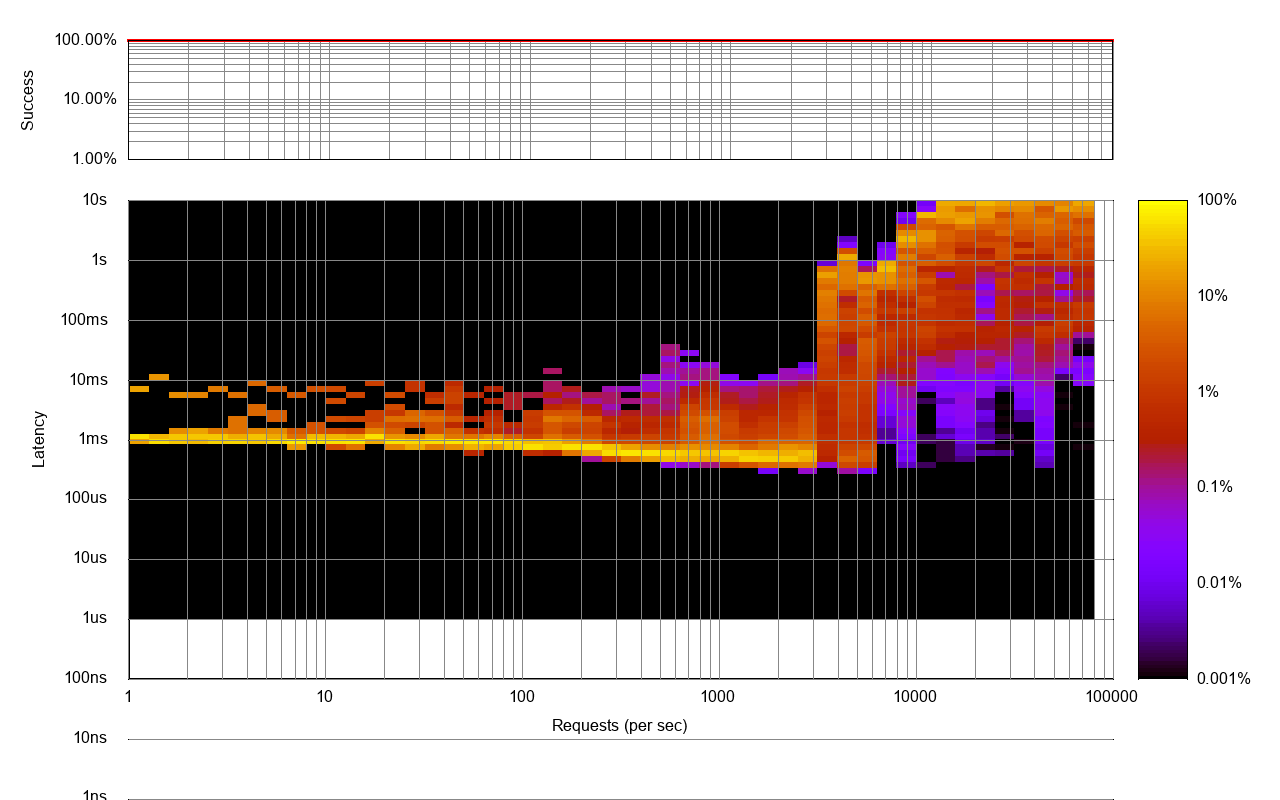
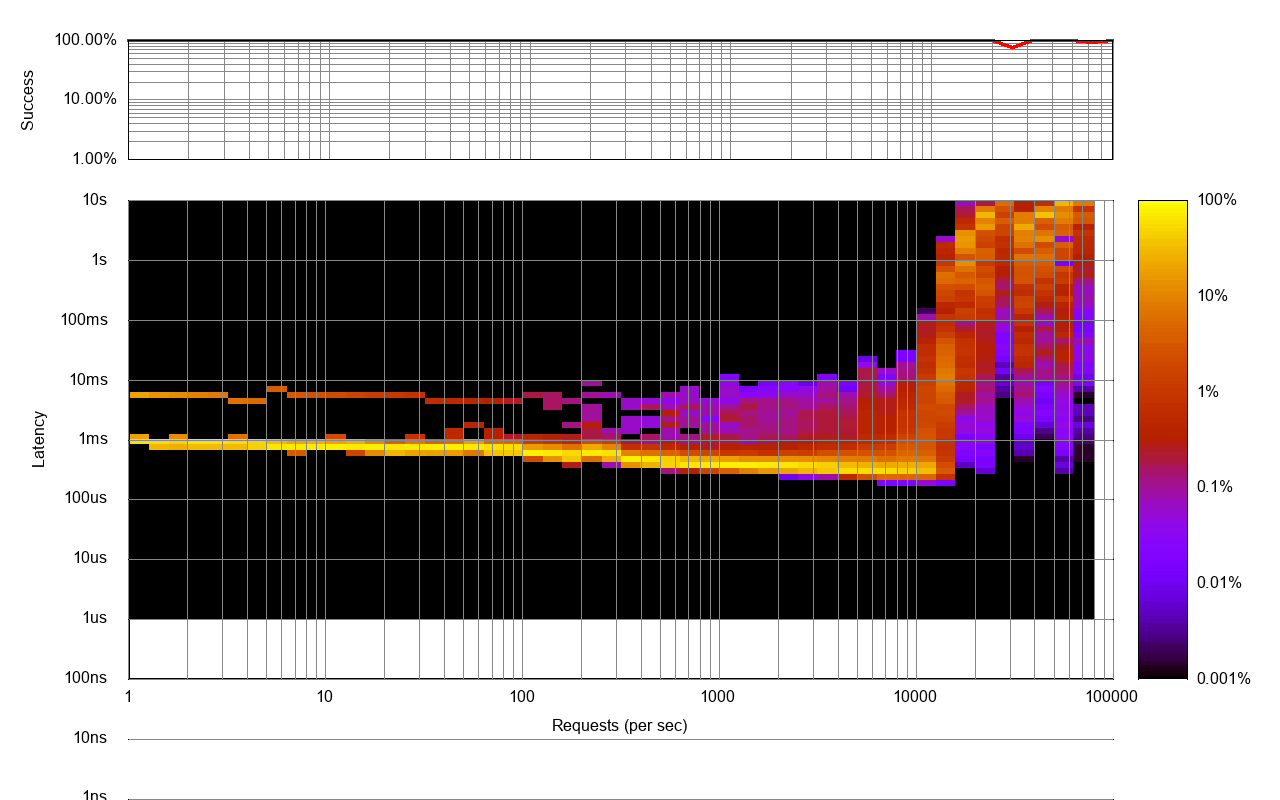
Update thrpt-receiver profiling, add gnuplot

Changed region(s): [[0.0938, 0.25, 0.875, 0.625], [0.7812, 0.0312, 0.8125, 0.0625], [0.0938, 0.4688, 0.125, 0.5]]

diff --git a/perf/thrpt-receiver/README.md b/perf/thrpt-receiver/README.md
@@ -25,6 +25,8 @@ Usage of thrpt-receiver:
    * [Reading results](#reading-results)
    * [Clean up](#clean-up)
 1. [Plotting](#plotting)
+   * [Google Sheets](#google-sheets)
+   * [gnuplot](#gnuplot)
 1. [Profiling](#profiling)
    * [Throughput](#throughput)
    * [Latency](#latency)
@@ -175,16 +177,35 @@ create such visualizations are described in this section.
 
    ![Chart](.assets/plot-gsheets-full-chart.png)
 
+### gnuplot
+
+The provided `throughput.plt` file can be used to plot Mako's CSV results. Those results must be saved to a file called
+`results.csv`.
+
+To generate a graph exported to a PNG file, execute the following command:
+
+```
+$ gnuplot -e "set term png size 1920, 1080" throughput.plt > results.png
+```
+
+See the next section for an example of rendered graph.
+
 ## Profiling
 
 The figures presented in this section describe the profile of a single instance of `thrpt-receiver` running under heavy
 load on a dedicated node in the TriggerMesh production cluster ([GCE n1-standard-2][gce-machines]). Those metrics can be
 used as a baseline to assess the performance of other CloudEvent handlers.
 
-We ensured that the limits of the `thrpt-receiver` process, in particular the maximum number of open files, were high
-enough to sustain a high number of concurrent connections. The number of outgoing connections established by a single
-load generator can not exceed the number of ports available on its host (65536), so we consider any value above that
-number as acceptable for the `nofile` resource limit of the receiver:
+Using the [ramp-requests.py](../load-ramping/) script, a succession of attacks were performed at different rates in
+periods of 5s, ranging from 1 event/sec to 79,432 events/sec (theoretical), with a payload of 2 KiB. The attacker was
+running on a dedicated compute-optimized node ([GCE c2-standard-8][gce-machines]) to avoid exhausting the node's
+resources at an early stage of the attack. The receiver's event store was initialized with a size of 900,000 using the
+`-estimated-total-events` flag.
+
+We ensured that the limits of the `thrpt-receiver` and `vegeta` processes, in particular the maximum number of open
+files, were high enough to sustain a high number of concurrent connections. The number of outgoing connections
+established by a single load generator can not exceed the number of ports available on its host (65536), so we consider
+any value above that number as acceptable for the `nofile` resource limit:
 
 ```
 / # cat /proc/3352/limits
@@ -197,31 +218,117 @@ Max open files            1048576              1048576              files
 
 ### Throughput
 
-_The Go garbage collector was disabled for the entire duration of this load test to prevent GC pauses from influencing
-the results. The event store was initialized with a size of 300,000 using the `-estimated-total-events` flag._
-
-The attack was performed in 5 intervals of 12s, by increments of 1600 events/sec, with a payload of 2 KiB. Below is a
-summary of the attack as reported by [`vegeta`][vegeta].
-
-```
-Requests      [total, rate, throughput]         275124, 4543.47, 4539.96
-Duration      [total, attack, wait]             1m1s, 1m1s, 46.915ms
-Latencies     [min, mean, 50, 90, 95, 99, max]  250.013µs, 152.998ms, 1.134ms, 555.641ms, 911.698ms, 1.36s, 2.412s
-Bytes In      [total, mean]                     0, 0.00
-Bytes Out     [total, mean]                     563453952, 2048.00
-Success       [ratio]                           100.00%
-Status Codes  [code:count]                      200:275124
-Error Set:
-```
-
 The throughput data collected by the Mako sidecar was extracted as a CSV file and displayed in a chart generated using
-Google Sheets. Although vegeta reported a success rate of 100%, we can observe that the thoughput becomes extremely
-unstable between the 4th and 5th intervals, roughly between 6400 and 8000 events/sec.
+gnuplot (see the [gnuplot](#gnuplot) section). We can observe that the throughput becomes extremely unstable at about
+**12,000 events/sec**.
+
+> _It's over 9000!_
 
 ![Receive throughput](.assets/profiling-receive-throughput.png)
 
-During the load test, `thrpt-receiver` was running with the `-profiling` flag so we could extract an execution trace
-from the pprof server and analyze the heap profile of the application:
+The Vegeta report for the 12,589 events/sec attack shows a 100% success ratio, but high latencies above the 90th
+percentile:
+
+```
+Requests      [total, rate, throughput]         62947, 12589.63, 12387.62
+Duration      [total, attack, wait]             5.081s, 5s, 81.532ms
+Latencies     [min, mean, 50, 90, 95, 99, max]  187.316µs, 133.384ms, 14.439ms, 528.109ms, 629.386ms, 1.326s, 2.386s
+Bytes In      [total, mean]                     0, 0.00
+Bytes Out     [total, mean]                     128915456, 2048.00
+Success       [ratio]                           100.00%
+Status Codes  [code:count]                      200:62947
+Error Set:
+```
+
+At 15,848 events/sec, we start seeing a few errors and some unacceptably high latencies (median above 1s):
+
+```
+Requests      [total, rate, throughput]         78950, 15787.37, 6784.90
+Duration      [total, attack, wait]             11.512s, 5.001s, 6.511s
+Latencies     [min, mean, 50, 90, 95, 99, max]  319.739µs, 1.474s, 1.527s, 2.703s, 2.851s, 4.029s, 8.418s
+Bytes In      [total, mean]                     0, 0.00
+Bytes Out     [total, mean]                     159959040, 2026.08
+Success       [ratio]                           98.93%
+Status Codes  [code:count]                      0:845  200:78105
+Error Set:
+Post "http://thrpt-receiver.perf-thrpt-receiver": read tcp 10.16.51.3:35317->10.19.245.6:80: read: connection reset by
+peer
+Post "http://thrpt-receiver.perf-thrpt-receiver": read tcp 10.16.51.3:52902->10.19.245.6:80: read: connection reset by
+peer
+Post "http://thrpt-receiver.perf-thrpt-receiver": read tcp 10.16.51.3:45288->10.19.245.6:80: read: connection reset by
+peer
+...
+```
+
+Above 19,000 events/sec, our attacker is unable to produce enough requests to keep up with the target, as shown in the
+following reports for 19,953 events/sec and 25,119 events/sec (see the value for `Requests . rate`):
+
+```
+Requests      [total, rate, throughput]         96416, 19283.75, 8150.28
+Duration      [total, attack, wait]             11.774s, 5s, 6.775s
+Latencies     [min, mean, 50, 90, 95, 99, max]  221.071µs, 3.63s, 3.89s, 6.24s, 6.49s, 6.756s, 10.075s
+Bytes In      [total, mean]                     0, 0.00
+Bytes Out     [total, mean]                     196536320, 2038.42
+Success       [ratio]                           99.53%
+Status Codes  [code:count]                      0:451  200:95965
+Error Set:
+Post "http://thrpt-receiver.perf-thrpt-receiver": dial tcp 0.0.0.0:0->10.19.245.6:80: bind: address already in use
+
+Requests      [total, rate, throughput]         111869, 22365.76, 3890.88
+Duration      [total, attack, wait]             22.053s, 5.002s, 17.052s
+Latencies     [min, mean, 50, 90, 95, 99, max]  5.248ms, 11.403s, 12.524s, 16.096s, 16.786s, 16.943s, 21.056s
+Bytes In      [total, mean]                     0, 0.00
+Bytes Out     [total, mean]                     175732736, 1570.88
+Success       [ratio]                           76.70%
+Status Codes  [code:count]                      0:26062  200:85807
+Error Set:
+Post "http://thrpt-receiver.perf-thrpt-receiver": dial tcp 0.0.0.0:0->10.19.245.6:80: bind: address already in use
+```
+
+Finally, we confirmed the limit of **12,000 events/sec** with a sustained attack (3m) coordinated between 2 event
+senders (2x 6,000 events/s):
+
+_Attacker "vegeta"_
+
+```console
+$ cegen -u http://thrpt-receiver.perf-thrpt-receiver.svc.cluster.local -d @/sample-ce-data.json | vegeta attack -lazy -format json -duration 3m -rate 6000/s | vegeta report
+Requests      [total, rate, throughput]         1080005, 6000.03, 6000.02
+Duration      [total, attack, wait]             3m0s, 3m0s, 309.965µs
+Latencies     [min, mean, 50, 90, 95, 99, max]  175.806µs, 62.058ms, 2.516ms, 116.84ms, 418.284ms, 1.113s, 4.524s
+Bytes In      [total, mean]                     0, 0.00
+Bytes Out     [total, mean]                     2211850240, 2048.00
+Success       [ratio]                           100.00%
+Status Codes  [code:count]                      200:1080005
+Error Set:
+```
+
+_Attacker "goku"_
+
+```console
+$ cegen -u http://thrpt-receiver.perf-thrpt-receiver.svc.cluster.local -d @/sample-ce-data.json | vegeta attack -lazy -format json -duration 3m -rate 6000/s | vegeta report
+Requests      [total, rate, throughput]         1080005, 6000.03, 5999.65
+Duration      [total, attack, wait]             3m0s, 3m0s, 11.254ms
+Latencies     [min, mean, 50, 90, 95, 99, max]  175.479µs, 62.069ms, 2.579ms, 119.076ms, 419.17ms, 1.104s, 2.918s
+Bytes In      [total, mean]                     0, 0.00
+Bytes Out     [total, mean]                     2211850240, 2048.00
+Success       [ratio]                           100.00%
+Status Codes  [code:count]                      200:1080005
+Error Set:
+```
+
+### Latency
+
+In the graph below, we can see the first failed requests occuring during the attack at 15,848 events/sec. However, the
+p99 above the 12,000 events/s mark is already consistently above 1s (see the reports for the single and coordinated
+attacks in the previous section).
+
+![Latency profile](.assets/profiling-latencies.png)
+
+### Heap
+
+During an earlier, less agressive load test with the Go garbage collector disabled, `thrpt-receiver` was running with
+the `-profiling` flag so we could extract an execution trace from the pprof server and analyze the heap profile of the
+application:
 
 ```console
 $ kubectl -n perf-thrpt-receiver port-forward thrpt-receiver 8008
@@ -240,99 +347,15 @@ $ go tool trace trace.out
 2020/11/10 21:39:32 Opening browser. Trace viewer is listening on http://127.0.0.1:33877
 ```
 
-In a web browser, we observed an initial heap size of 4.4 MiB. After the 275124 events had been received, 3.5 GiB were
+In a web browser, we observed an initial heap size of 4.4 MiB. After 27,5124 events had been received, 3.5 GiB were
 allocated to the heap. This number went down to 125.7 MiB after the forced garbage collection triggered by
 `thrpt-receiver`.
 
 ![Heap profile after GC](.assets/profiling-heap.png)
 
-### Latency
-
-_Because a lot more events were generated in the latency test than in the thoughput test (969775 vs. 275124), we ensured
-the Go garbage collector was enabled to prevent the Pod performing the attack from being OOM killed._
-
-Using the [ramp-requests.py](../load-ramping/) script, a succession of 5s attacks were performed at different rates,
-ranging from 1 event/sec to 79,432 events/sec (theoretical), with a payload of 2 KiB.
-
-In the graph below, we can observe that all requests succeeded, even in the higher ranges. However, most requests
-(median) above the 8,000 events/sec mark had to wait for more than 1s to get a response from the receiver.
-
-![Latency profile](.assets/profiling-latencies.png)
-
-Vegeta reports indicate that the receiver starts showing severe signs of weakness (wait times >1sec) somewhere between
-8,000 events/sec and 10,000 events/sec:
-
-```
-Requests      [total, rate, throughput]         39693, 7912.43, 7071.79
-Duration      [total, attack, wait]             5.613s, 5.017s, 596.331ms
-Latencies     [min, mean, 50, 90, 95, 99, max]  417.864µs, 489.299ms, 593.072ms, 735.633ms, 759.615ms, 800.473ms, 1.397s
-Bytes In      [total, mean]                     0, 0.00
-Bytes Out     [total, mean]                     81291264, 2048.00
-Success       [ratio]                           100.00%
-Status Codes  [code:count]                      200:39693
-Error Set:
-```
-
-```
-Requests      [total, rate, throughput]         49992, 9989.12, 6506.87
-Duration      [total, attack, wait]             7.683s, 5.005s, 2.678s
-Latencies     [min, mean, 50, 90, 95, 99, max]  598.176µs, 1.481s, 1.496s, 2.594s, 2.648s, 2.724s, 4.554s
-Bytes In      [total, mean]                     0, 0.00
-Bytes Out     [total, mean]                     102383616, 2048.00
-Success       [ratio]                           100.00%
-Status Codes  [code:count]                      200:49992
-Error Set:
-```
-
-On the receiver, the measured throughput never exceeded ~7,000 events/sec, as shown in the graph below which is a
-zoomed-in view of the last ~5s of the attack (at a _theoretical_ rate of 79,432 events/sec).
-
-![Receive throughput during latency test](.assets/profiling-latencies-throughput.png)
-
-In reality, the Vegeta reports of the last few attacks show that the attacker itself isn't able to produce more than
-~20,000 events/sec on that hardware.
-
-For a target of 25,118 events/sec:
-
-```
-Requests      [total, rate, throughput]         101381, 20190.99, 6198.92
-Duration      [total, attack, wait]             16.355s, 5.021s, 11.334s
-Latencies     [min, mean, 50, 90, 95, 99, max]  642.621µs, 6.24s, 6.367s, 10.373s, 10.932s, 11.315s, 15.002s
-Bytes In      [total, mean]                     0, 0.00
-Bytes Out     [total, mean]                     207628288, 2048.00
-Success       [ratio]                           100.00%
-Status Codes  [code:count]                      200:101381
-Error Set:
-```
-
-For a target of 39,810 events/sec:
-
-```
-Requests      [total, rate, throughput]         103667, 20002.61, 6156.27
-Duration      [total, attack, wait]             16.839s, 5.183s, 11.657s
-Latencies     [min, mean, 50, 90, 95, 99, max]  3.121ms, 6.417s, 6.802s, 10.811s, 11.343s, 11.81s, 15.527s
-Bytes In      [total, mean]                     0, 0.00
-Bytes Out     [total, mean]                     212310016, 2048.00
-Success       [ratio]                           100.00%
-Status Codes  [code:count]                      200:103667
-Error Set:
-```
-
-For a target of 50,118 events/sec:
-
-```
-Requests      [total, rate, throughput]         109669, 21870.86, 6144.78
-Duration      [total, attack, wait]             17.848s, 5.014s, 12.833s
-Latencies     [min, mean, 50, 90, 95, 99, max]  390.626µs, 7.392s, 7.892s, 12.029s, 12.302s, 12.779s, 16.851s
-Bytes In      [total, mean]                     0, 0.00
-Bytes Out     [total, mean]                     224602112, 2048.00
-Success       [ratio]                           100.00%
-Status Codes  [code:count]                      200:109669
-Error Set:
-```
-
 [mako-stub]: https://github.com/knative/pkg/tree/release-0.18/test/mako
 [gsheets-ts-formula]: https://webapps.stackexchange.com/a/112651
 [gsheets-fill]: https://support.google.com/docs/answer/75509
+[gnuplot]: http://www.gnuplot.info/
 [vegeta]: https://github.com/tsenart/vegeta
 [gce-machines]: https://cloud.google.com/compute/docs/machine-types
